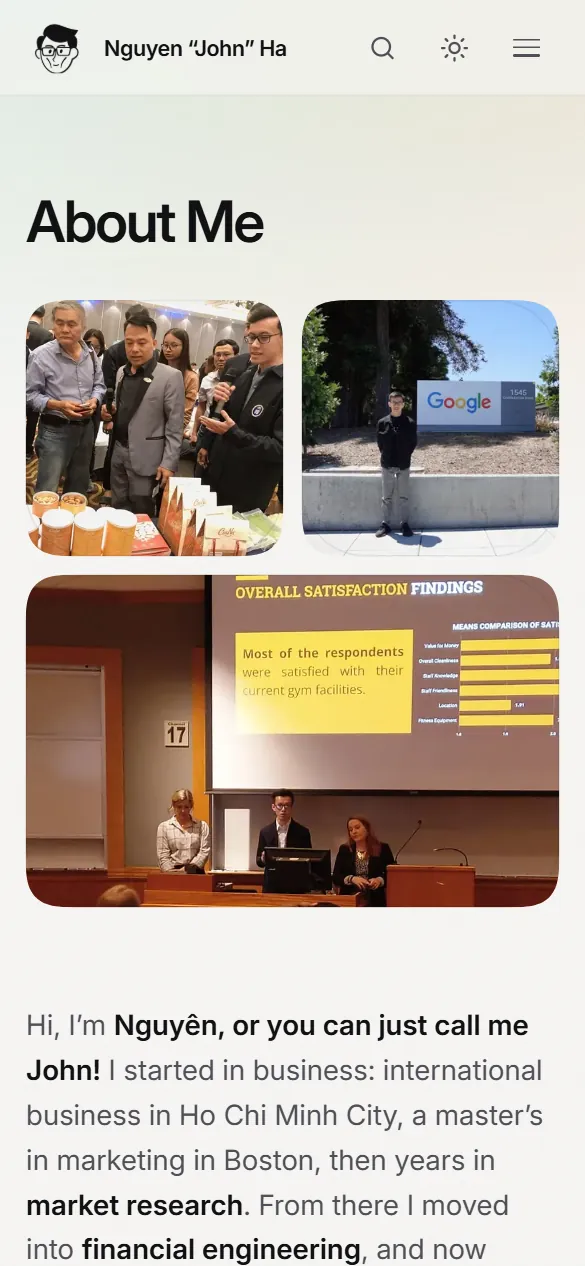
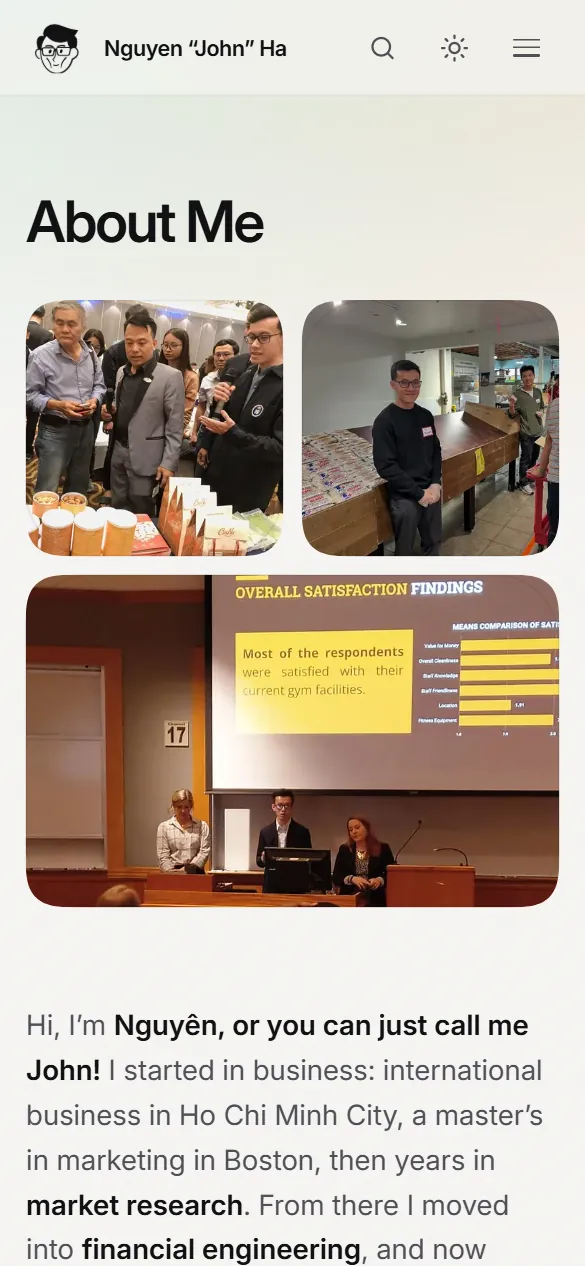
Replace the Google photo on About with the food pantry photo
- New about-collage-4 (480/800 WebP) from a Northeastern University
  Silicon Valley Instagram post; credited in docs/IMAGE-CREDITS.md
- Remove the Google photo files from the site
- Refresh the About screenshot in the README

Changed region(s): [[0.4923, 0.2156, 0.9538, 0.4621]]

diff --git a/site/about/index.html b/site/about/index.html
@@ -101,7 +101,7 @@
   <div class="collage">
     <figure class="frame sq" data-reveal style="--i:0"><img src="/assets/img/about-collage-2-800.webp" srcset="/assets/img/about-collage-2-480.webp 480w, /assets/img/about-collage-2-800.webp 800w" sizes="(min-width: 48rem) 33vw, 100vw" width="800" height="800" alt="John presenting customer satisfaction survey findings to a lecture hall" loading="lazy" decoding="async"></figure>
     <figure class="frame sq" data-reveal style="--i:1"><img src="/assets/img/about-collage-3-800.webp" srcset="/assets/img/about-collage-3-480.webp 480w, /assets/img/about-collage-3-800.webp 800w" sizes="(min-width: 48rem) 33vw, 50vw" width="800" height="600" alt="John presenting packaged food products to visitors at a trade showcase" loading="lazy" decoding="async"></figure>
-    <figure class="frame sq" data-reveal style="--i:2"><img src="/assets/img/about-collage-1-800.webp" srcset="/assets/img/about-collage-1-480.webp 480w, /assets/img/about-collage-1-800.webp 800w" sizes="(min-width: 48rem) 33vw, 50vw" width="800" height="535" alt="John standing in front of the Google sign at 1545 Charleston Road in Mountain View" loading="lazy" decoding="async"></figure>
+    <figure class="frame sq" data-reveal style="--i:2"><img src="/assets/img/about-collage-4-800.webp" srcset="/assets/img/about-collage-4-480.webp 480w, /assets/img/about-collage-4-800.webp 800w" sizes="(min-width: 48rem) 33vw, 50vw" width="800" height="600" alt="John volunteering at a food pantry, wearing a name tag and gloves beside a bin of dried beans" loading="lazy" decoding="async"></figure>
   </div>
 </section>
 

diff --git a/site/assets/css/site.css b/site/assets/css/site.css
@@ -812,7 +812,7 @@ main { flex: 1; padding-top: var(--nav-h); }
 .collage .frame:nth-child(3) { grid-column: span 3; aspect-ratio: 1; }
 .collage .frame:nth-child(1) img { object-position: 50% 45%; }
 .collage .frame:nth-child(2) img { object-position: 90% 30%; }
-.collage .frame:nth-child(3) img { object-position: 30% 60%; }
+.collage .frame:nth-child(3) img { object-position: 5% 50%; }
 @media (min-width: 48rem) {
   .collage { gap: var(--space-4); }
   .collage .frame:nth-child(n) { grid-column: span 2; grid-row: auto; aspect-ratio: 4 / 5; }

diff --git a/docs/STATUS.md b/docs/STATUS.md
@@ -39,7 +39,7 @@ _Last updated: 2026-10-07_
 - **2026-10-07:** Contact: no form, just one button that opens email to johnha0912@gmail.com (plus a copy button and social links).
 - **2026-10-07:** Tech "Earlier work" cards show only the term and year (e.g. "Spring 2026"); no course numbers and no school name.
 - **2026-10-07:** Featured project cards drop the "Flagship" and "Solo project" labels; only the "In progress" pill remains.
-- **2026-10-07:** About collage order: survey presentation, trade showcase, then the Google photo last. On phones the survey presentation photo is the full-width one below two squares (trade showcase, Google); owner change 2026-10-07.
+- **2026-10-07:** About collage order: survey presentation, trade showcase, then the food pantry volunteering photo last (it replaced the Google photo on 2026-10-07). On phones the survey presentation photo is the full-width one below two squares (trade showcase, food pantry).
 - **2026-10-07:** Header nav adds the homepage sections (Tech, Music, Photography, Contact) next to Home, About, Coffee Blog on every page; the burger menu now covers widths below 960px so the longer nav fits.
 - **2026-10-07:** Add the taste-skill and UI UX Pro Max skills to the agent team (installed and logged in `docs/TOOLS.md`). Install Anthropic's `frontend-design` plugin (owner runs the command; see Toolchain).
 

diff --git a/docs/IMAGE-CREDITS.md b/docs/IMAGE-CREDITS.md
@@ -21,7 +21,8 @@ Photos inside the Coffee Blog articles are freely licensed images from Wikimedia
 
 ## Other assets
 
-- Portrait, About collage, and avatar: the owner's own photos and drawing.
+- Portrait, avatar, and the first two About collage photos: the owner's own photos and drawing.
+- About collage food pantry photo (`about-collage-4-*.webp`): from a [Northeastern University Silicon Valley Instagram post](https://www.instagram.com/p/DPUlZNEgSAz/) (image 3, posted 2025-10-02) showing the owner volunteering; resized to WebP. Copyright belongs to Northeastern University; used on the owner's request.
 - Brew line-art icons and the espresso brewing control chart: original to this site. The chart is redrawn from the concept described by [Barista Hustle](https://www.baristahustle.com/?p=2173), with the target zone from [Winarso et al. (2024)](https://doi.org/10.30811/jpl.v22i3.4636).
 - Plotly.js 2.35.2 (basic bundle), MIT: `site/assets/vendor/plotly-LICENSE.txt`.
 - Inter and JetBrains Mono, SIL Open Font License: `site/assets/fonts/*-OFL.txt`.
